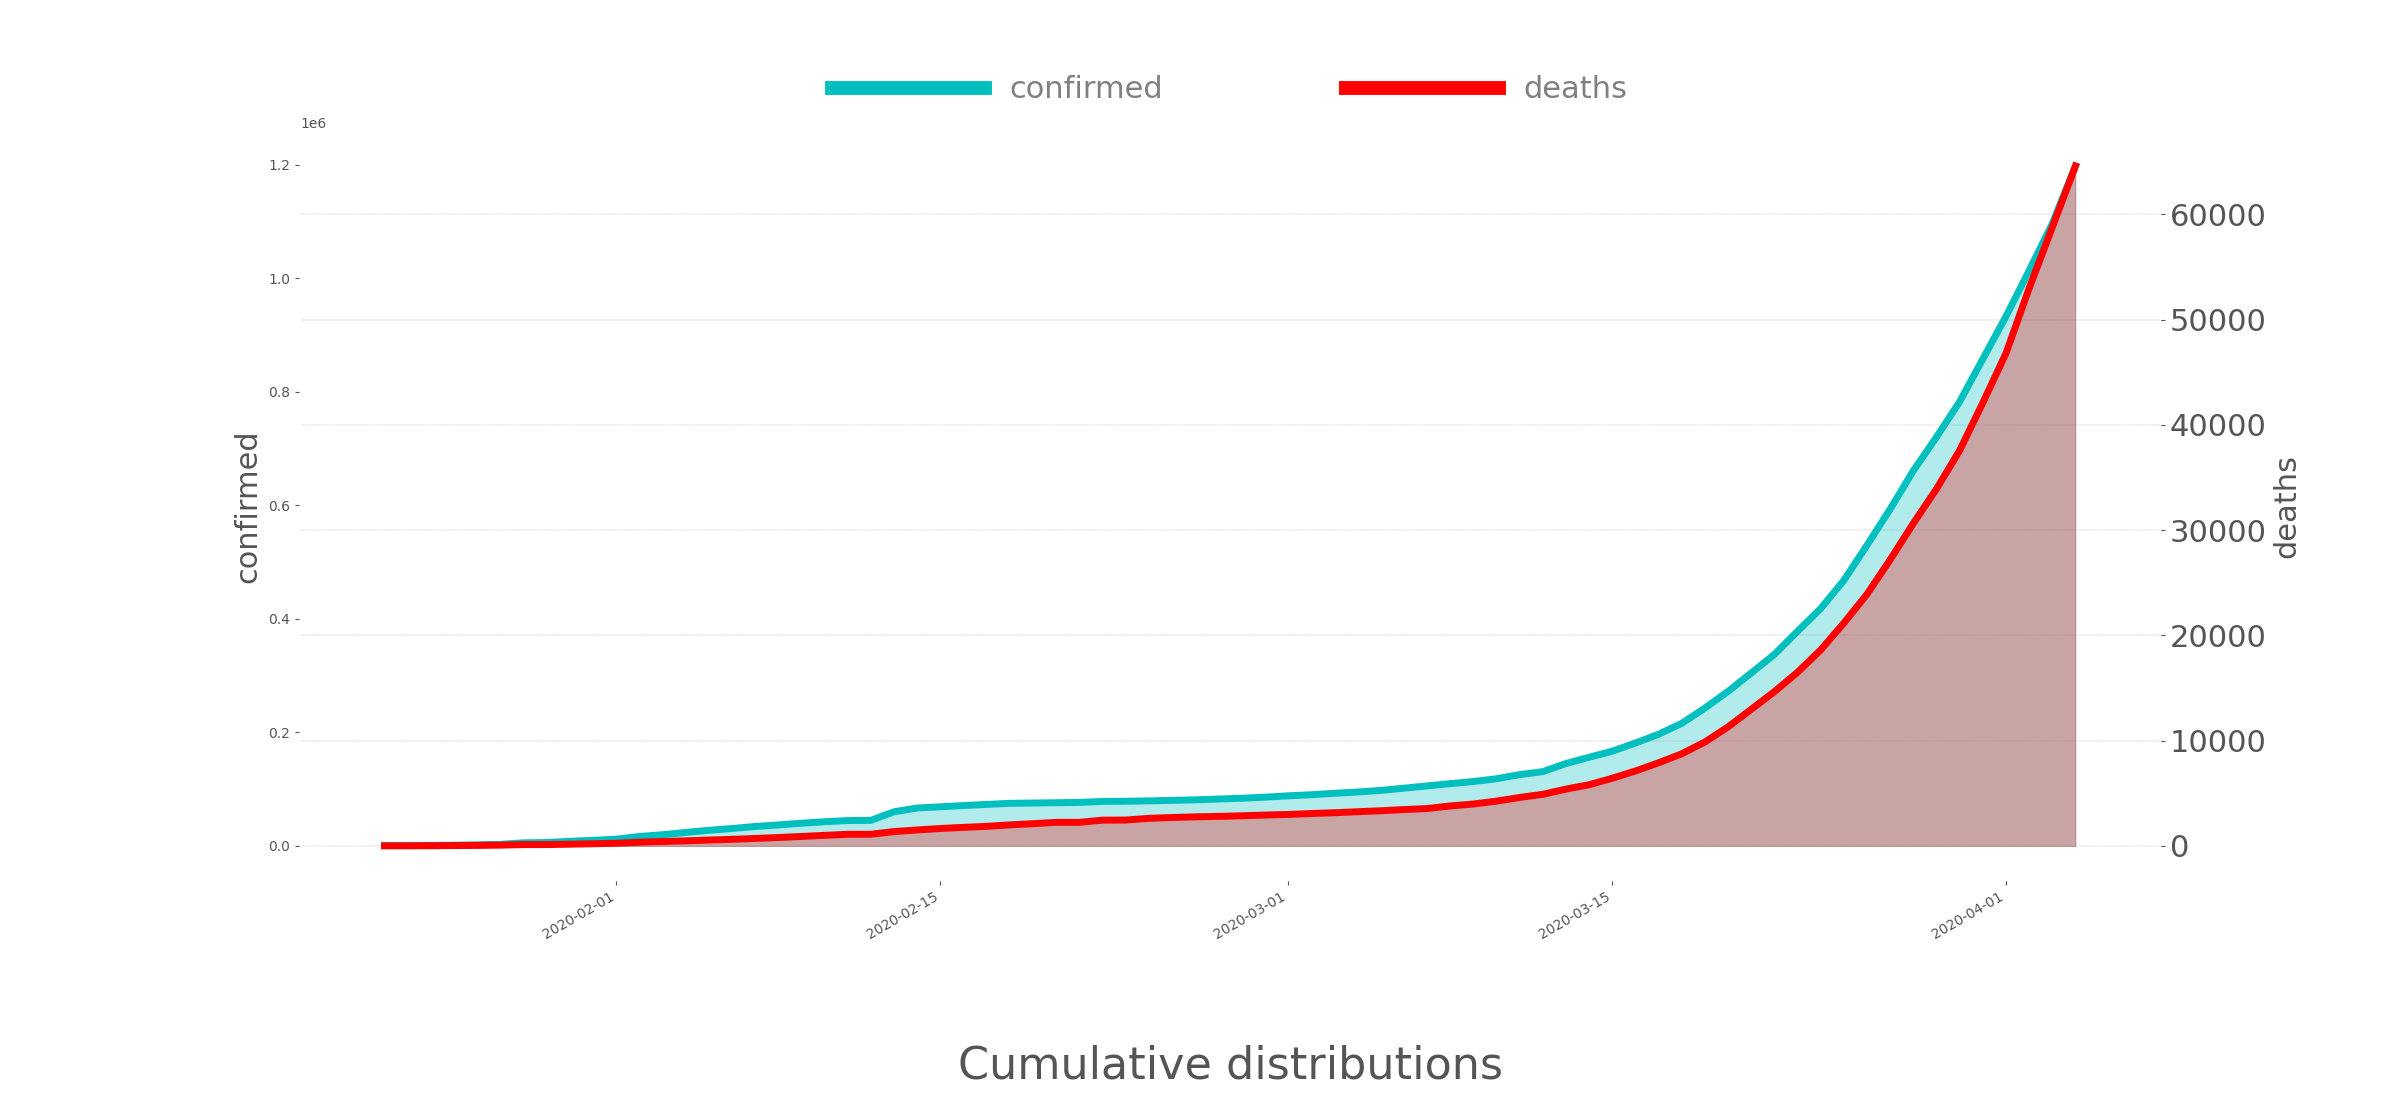
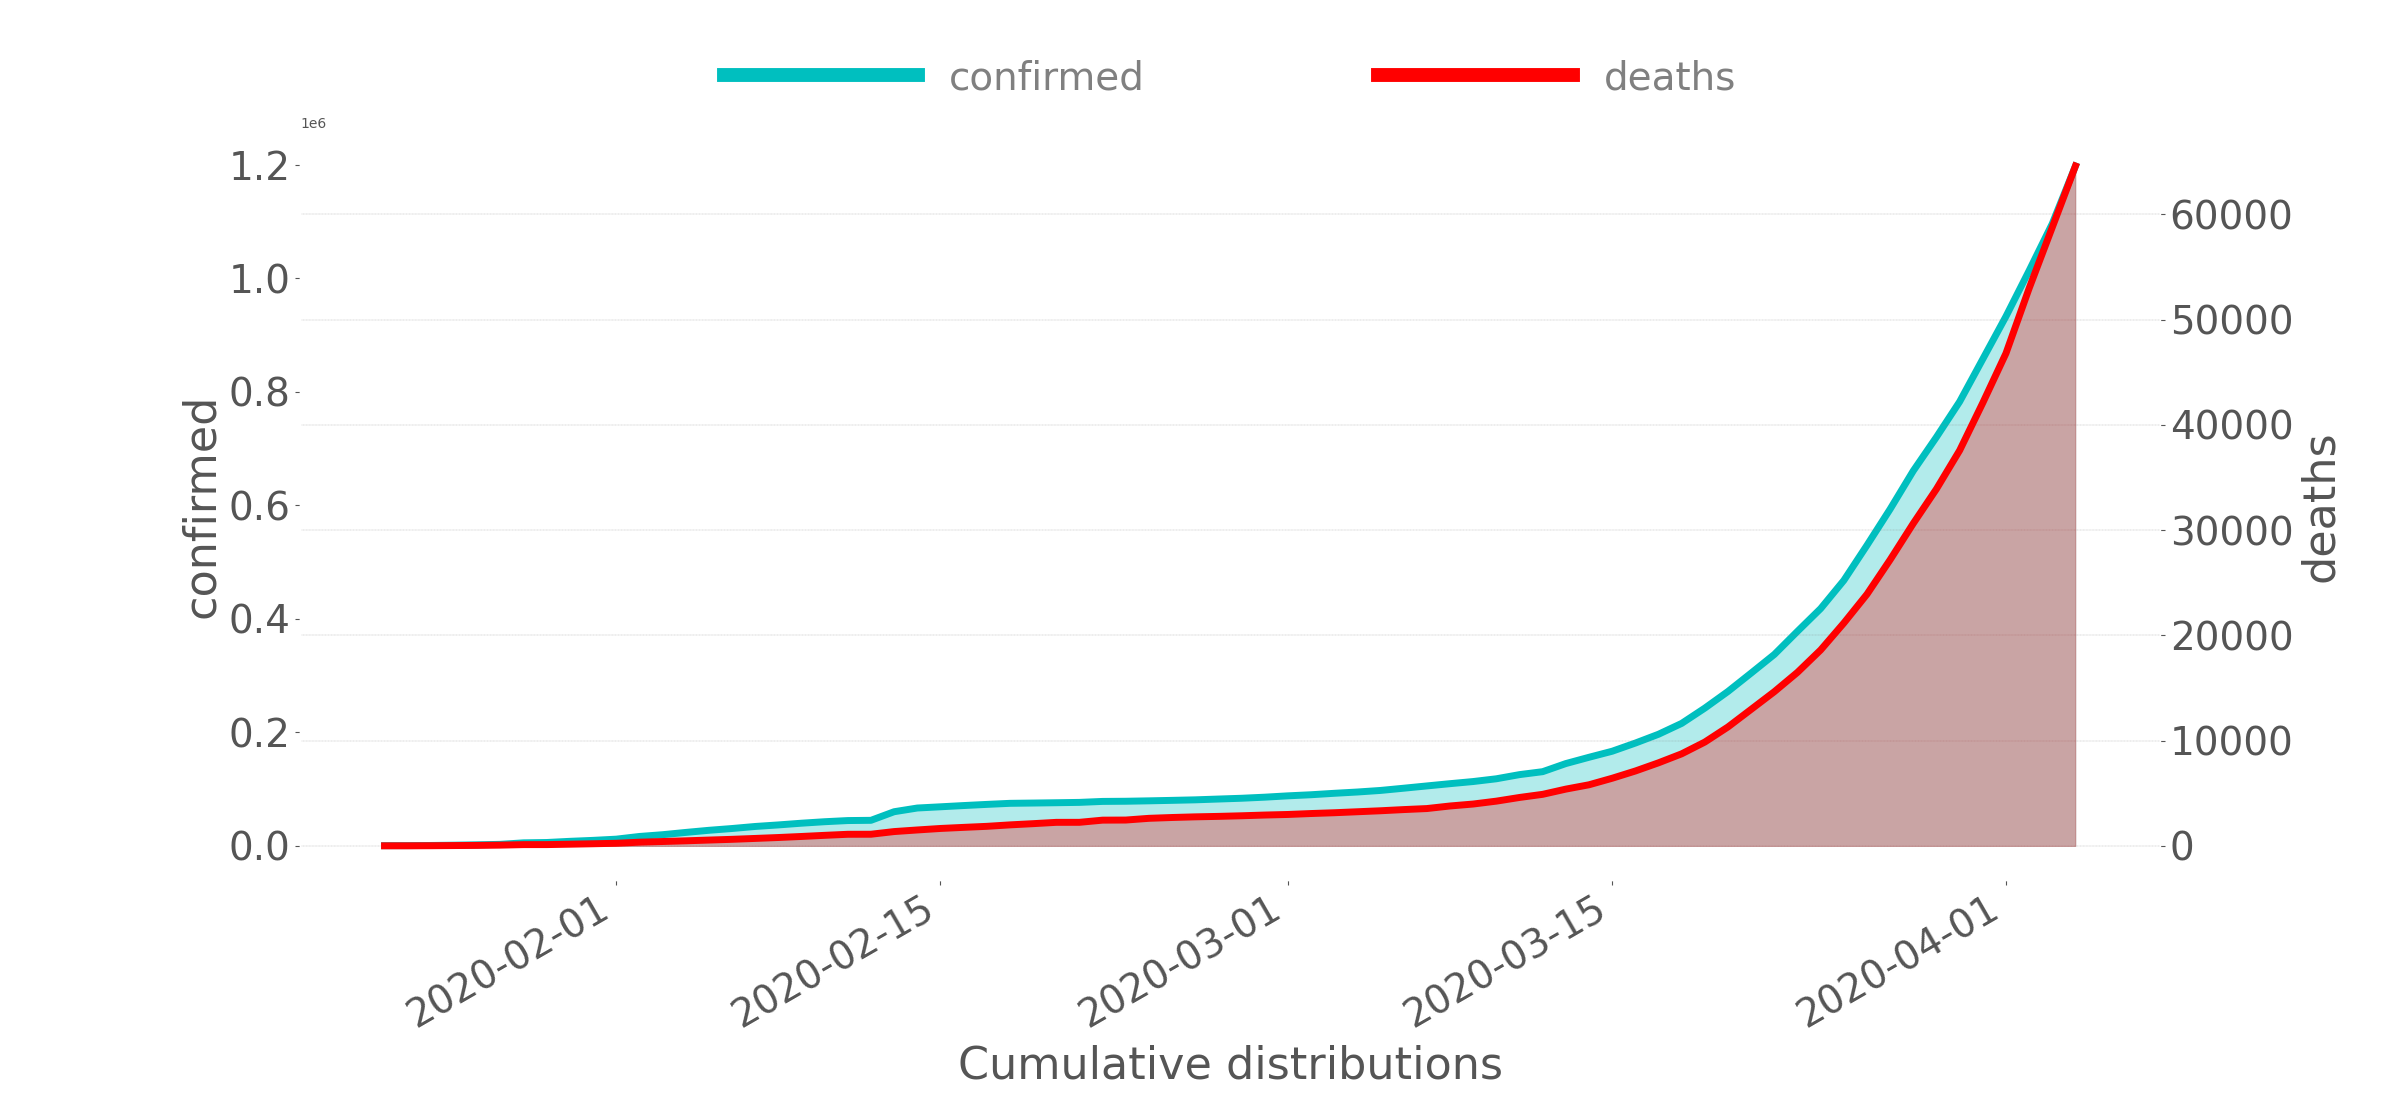
Fixed logistic curve fontsizes

diff --git a/scripts/covid_by_ste/covid_analysis/plotter.py b/scripts/covid_by_ste/covid_analysis/plotter.py
@@ -72,7 +72,7 @@ class Plotter:
     def plot_logistic_curve(self, data):
         filename = '{}/logistic_curves.png'.format(DIRS['result'])
         legend_kwargs = dict(bbox_to_anchor=(.5, 1), edgecolor='white',
-                             loc='lower center', ncol=3, fontsize=22,
+                             loc='lower center', ncol=3, fontsize=28,
                              columnspacing=6, handlelength=5, facecolor='white')
         colors = ['c', 'r']
         lines = []
@@ -87,7 +87,8 @@ class Plotter:
                               label=s, lw=5)
             tmp.fill_between(grouped[s].index, grouped[s], 0,
                              color=colors[i], alpha=0.3)
-            tmp.set_ylabel(s, fontsize=22)
+            tmp.set_ylabel(s, fontsize=32)
+            tmp.tick_params(axis="y", labelsize=28)
 
         fig.autofmt_xdate()
         leg = ax.legend(lines, [line.get_label() for line in lines], **legend_kwargs)
@@ -97,9 +98,8 @@ class Plotter:
         ax.set_xlabel('Cumulative distributions', fontsize=32)
         ax.xaxis.set_label_coords(0.5, -0.22)
         ax.set_facecolor("white")
+        ax.tick_params(axis="x", labelsize=28)
         plt.grid(True, color="grey", linestyle='--', lw=0.2)
-        plt.xticks(fontsize=22)
-        plt.yticks(fontsize=22)
         plt.savefig(filename)
         plt.close(fig)
 

diff --git a/scripts/covid_by_ste/analysis.py b/scripts/covid_by_ste/analysis.py
@@ -12,9 +12,9 @@ def run():
     analyzer = CovidAnalyzer([DATA])
     plotter = Plotter(analyzer.data)
 
-    # log.info('>>> Logistic curve at {}'.format(yesterday()))
-    # plotter.plot_logistic_curve(analyzer.data)
-    #
+    log.info('>>> Logistic curve at {}'.format(yesterday()))
+    plotter.plot_logistic_curve(analyzer.data)
+
     # log.info('>>> Generating grow rates...')
     # grow_rates = analyzer.grow_rates_per_country()
     # plotter.plot_grow_rate_per_country(grow_rates)
@@ -35,9 +35,9 @@ def run():
     # log.info("Plotting Italy confirmed trend over the number of daily swabs")
     # plotter.scatter_swabs(data, rgr.predict(data['tamponi']))
 
-    log.info(">>> Update world map")
-    data = analyzer.world_map()
-    plotter.plot_map(data)
+    # log.info(">>> Update world map")
+    # data = analyzer.world_map()
+    # plotter.plot_map(data)
 
 
 if __name__ == '__main__':
